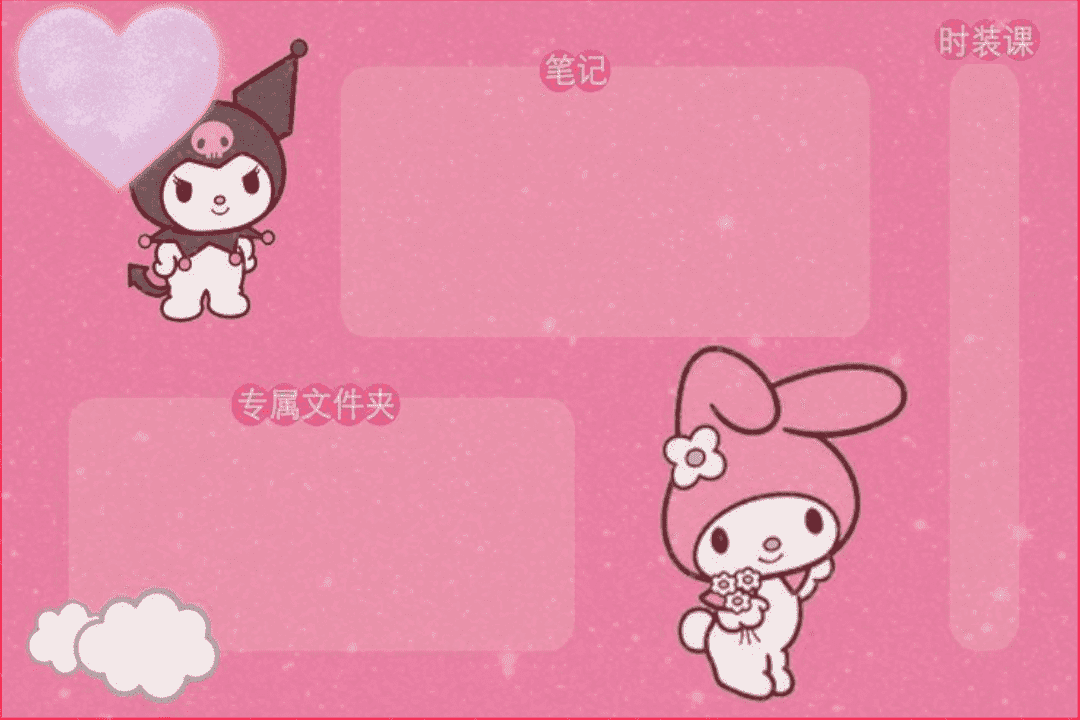
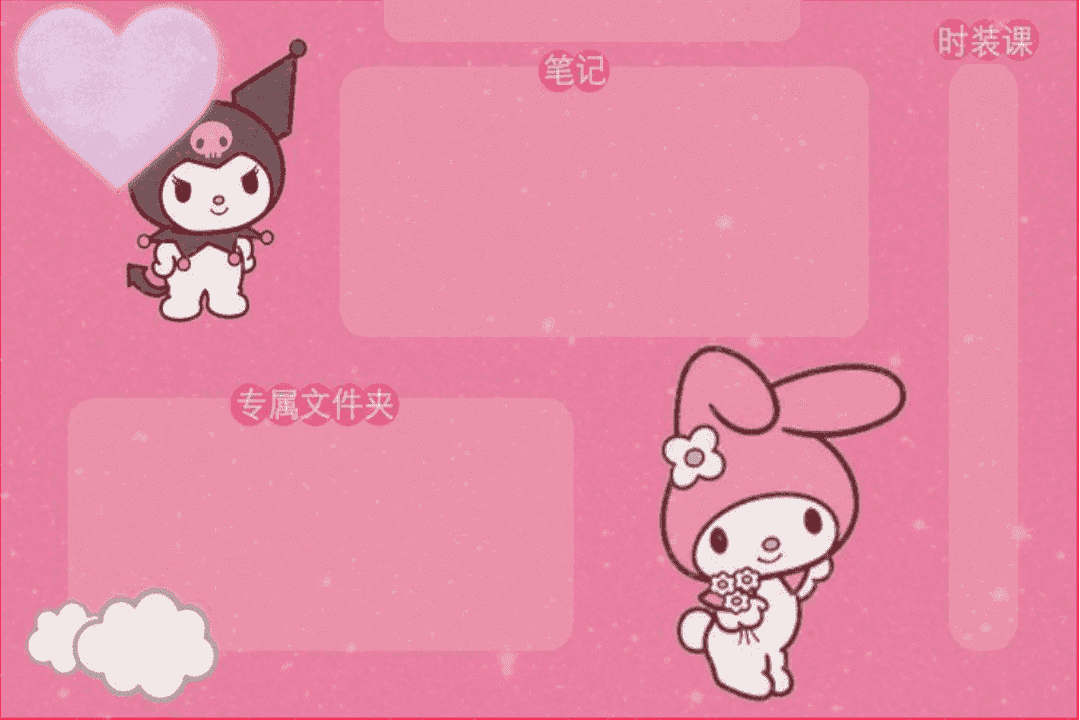
feat: implement user titles in hello kitty profile theme

diff --git a/src/renderers/profiles/hello_kitty.go b/src/renderers/profiles/hello_kitty.go
@@ -23,6 +23,9 @@ func RenderHelloKitty(User *utils.UserData, I18n *utils.I18n, db *database.Datab
 	ctx.SetFontFace(*utils.GetFont("Kawaii", 54))
 	ctx.DrawStringWrapped(User.Username, 355, 100, 0, 0.5, 750, 1, 0)
 
+	ctx.SetFontFace(*utils.GetFont("Kawaii", 48))
+	ctx.DrawStringAnchored(User.Title, 590, 10, 0.5, 0.5)
+
 	if User.Married {
 		ctx.SetFontFace(*utils.GetFont("Kawaii", 32))
 		ctx.DrawStringWrapped(User.MarryUsername, 355, 140, 0, 0.5, 750, 1, 0)
